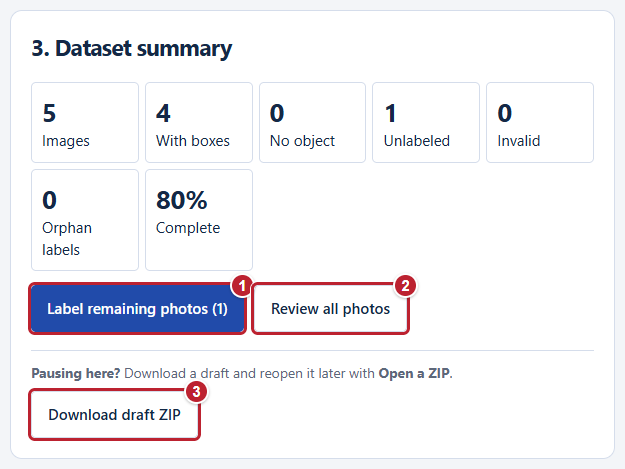
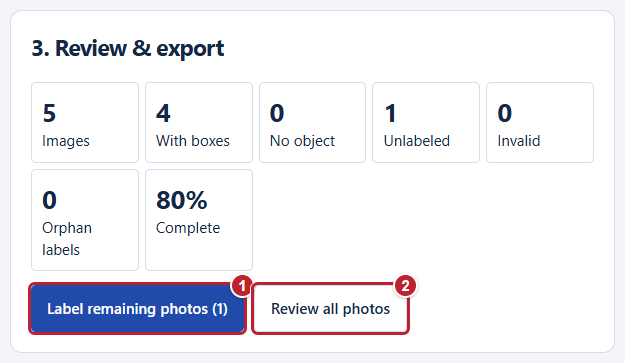
Update README and screenshots for the published Labeler workflow

diff --git a/README.md b/README.md
@@ -6,24 +6,24 @@
 
 **Make a YOLO dataset from your own photos.** Choose the object types you want to detect, draw a box around each one, then download a ZIP containing your photos, labels and class names. Labeling runs on your device and requires no account.
 
+[Start with your own photos](#your-first-dataset) · [Try the sample photos](#try-the-sample-photos) · [Continue training in Colab](#continue-training-in-colab)
+
 ![The annotation workbench with a boxed bolt and hex nut, the Suggest boxes toolbar button, and five distinct hardware photos](docs/guide/04-label-objects.png)
 
 The example uses photos of loose fasteners, an assembled bolt, a bolted plate, rusted parts and a bag of washers. [Screenshot photo credits](docs/guide/photo-credits.md)
-
-[Try the sample photos](#try-the-sample-photos) · [Start with your own photos](#your-first-dataset)
 
 ## Your first dataset
 
 1. **Start with a folder.** On your computer, create an empty folder called `My Dataset`. Open the labeler in desktop Chrome or Edge, click **Open dataset folder**, select it and allow write access if prompted.
 2. **Add your photos.** Click **Create Missing Items**. The labeler creates `images/`, `labels/` and `classes.txt`. Copy your training photos into `images/`, then click **Refresh Dataset**. Keep a few fresh photos aside for testing.
 3. **Choose your classes.** Click **Add Class** for each object type, enter names such as `bolt` and `hex_nut`, then click **Save Classes** and **Start Labeling**.
-4. **Label each photo.** In **Draw**, choose a **New box class** and drag a tight box around each matching object. Use **Edit** to adjust a box. Click **Next** to move on. Select **×** on a thumbnail to leave that photo out of the dataset.
+4. **Label each photo.** In **Draw**, choose a **New box class** and drag a tight box around each matching object. On an unlabeled photo, you can also use [**Suggest boxes**](#get-suggestions-for-a-photo), check the results and draw any missing boxes. Use **Edit** to adjust a box, then click **Next** to move on.
 5. **Download your work.** Click **Save & exit** to open **Review & export**. Finish any remaining images and click **Download Labeled_data.zip**. The ZIP contains your photos, matching labels and class list.
-6. **Continue to training.** Find the ZIP in Downloads, click **I have the ZIP**, then **Continue to Training in Colab**. In Colab, sign in and open the notebook supplied in Part 5D. Upload your `Labeled_data.zip` through the **Files** panel, leave it zipped and run the dataset check. Check your class names before training.
+6. **Continue to training.** Find the ZIP in Downloads, click **I have the ZIP**, then **Continue to Training in Colab**. Open your training notebook and upload the ZIP as-is through **Files**. See [Continue training in Colab](#continue-training-in-colab).
 
 **On a phone?** Start at **Start with my photos**, pick your pictures and continue from step 3. Download a draft ZIP before closing if you want to finish later.
 
-[Import photos or ZIPs](#open-or-add-images) · [Classes and merging](#set-up-classes-and-combine-datasets) · [Drawing tools](#use-the-annotation-workbench) · [Phone controls](#use-the-workbench-on-a-phone) · [Saving and repairs](#review-save-and-resume) · [Export](#export-your-training-zip) · [Help and shortcuts](#help-and-keyboard-shortcuts)
+[Import photos or ZIPs](#open-or-add-images) · [Classes and merging](#set-up-classes-and-combine-datasets) · [Drawing tools](#use-the-annotation-workbench) · [Phone controls](#use-the-workbench-on-a-phone) · [Saving and repairs](#review-save-and-resume) · [Export](#export-your-training-zip) · [Colab](#continue-training-in-colab) · [Help and shortcuts](#help-and-keyboard-shortcuts)
 
 ## Try the sample photos
 
@@ -33,7 +33,7 @@ Use these five photos to practice labeling `bolt` and `hex_nut`. Choose the work
 
 | Labeler button | Download | What to do |
 |---|---|---|
-| **Open a ZIP** | [Nearly finished dataset ZIP](https://active-learning-kyle.github.io/yolo-dataset-labeler/examples/fasteners/fastener-labeled-dataset.zip) | Select the downloaded ZIP as-is. Four photos already have boxes. Click **Label remaining photos (1)** to open the washers photo, then try the final export. |
+| **Open a ZIP** | [Nearly finished dataset ZIP](https://active-learning-kyle.github.io/yolo-dataset-labeler/examples/fasteners/fastener-labeled-dataset.zip) | Select the downloaded ZIP as-is. Four photos already have boxes. Click **Label remaining photos (1)** to open the washer-only photo. Remove it with **×**, or use **Photo options → Confirm no object** to include it as a background. |
 | **Start with my photos** | [Unlabeled photos](https://active-learning-kyle.github.io/yolo-dataset-labeler/examples/fasteners/fastener-photos.zip) | Unzip the download. Select the five JPGs inside **Fastener-Photos**, using your photo library or file picker. Add `bolt` first and `hex_nut` second, click **Save Classes**, then **Start Labeling**. |
 
 The washers photo contains neither target class. You can remove it from the training dataset and keep it aside to test for false detections. When every included photo has been reviewed, click **Save & exit** and download **Labeled_data.zip**. Keep the photo credits from the pack with any copy you share. [Photo sources and licenses](docs/guide/photo-credits.md)
@@ -53,6 +53,8 @@ The washers photo contains neither target class. You can remove it from the trai
 
 While labeling, choose **+ Add photos** at the end of the image strip to append more photos. On a phone, open the strip with **Images** first. Use the **×** on a thumbnail to remove that photo and its label from the current dataset and future ZIP exports. Hover over the thumbnail or focus it with the keyboard to reveal the button on a computer. **Undo remove** restores the photo with its label. The original files stay on your device. If you reopen the original folder, its photos are included again. Reopen your exported ZIP to continue with the curated set.
 
+If you remove every photo, choose **Add photos**, **Undo remove**, or **Back to dataset** to return to setup.
+
 When you open an empty writable folder, click **Create Missing Items** where shown below. Copy photos into `images/` and click **Refresh Dataset** beside it.
 
 ![Empty dataset with all three required items marked Missing and Create Missing Items outlined in red](docs/guide/02-create-files.png)
@@ -69,7 +71,7 @@ A class is an object type. Use a distinct, non-empty name for each one. The numb
 
 **1** Add a row for each object type. **2** Save your class names. **3** Open the workbench.
 
-- Before labeling, use **↑** to move a class up or **Delete** to remove it. Once images have labels, the order and delete controls lock so existing IDs keep their meaning. You can still append another class.
+- Use **↑** to move a class up or **Delete** to remove it. The labeler disables an action if it would change or remove an ID used by existing labels, including labels on photos you can restore. You can add another class at the end.
 - To open a ZIP as its own dataset, choose **Open a ZIP** on the home screen. To add labeled photos to the dataset you already have open, save your classes and choose **Import labeled ZIP** under **Dataset structure**. The class names and order must match. The labeler keeps reviewed backgrounds, skips photos without a label file and renames incoming pairs when a filename is taken.
 
 ## Use the annotation workbench
@@ -92,6 +94,10 @@ The numbers in the [workbench screenshot above](#yolo-dataset-labeler) show **1*
 3. Check each dashed box. Choose its class in the menu beside that box under **Bounding boxes**. Use **Edit** to move or resize a box, **Delete** to remove one, and **Draw** to add any missed objects. The number marked **AI** is the model's score for its original suggestion.
 4. Click **Save reviewed boxes** when the whole photo is ready. To start over, click **Discard suggestions**. If the model suggests nothing, check the photo yourself and draw boxes around any missed targets.
 
+![A dashed suggestion around the bolt, the class selector beside it, and the Save reviewed boxes button](docs/guide/10-review-suggested-boxes.png)
+
+The suggestion found the bolt. Select **Draw** and the `hex_nut` class to add the missing box around the nut before saving.
+
 The model is [OWL-ViT](https://huggingface.co/google/owlvit-base-patch32), using [quantized ONNX weights](https://huggingface.co/Xenova/owlvit-base-patch32). Fine distinctions, small parts and partly hidden objects may need more hand correction.
 
 ### Use the workbench on a phone
@@ -106,7 +112,9 @@ In **Review & export**, choose **Start Labeling** for a fresh set. When a set is
 
 When you work through the **Unlabeled** filter, photos stay in that list while you edit them. The labeler saves your edits as you go and updates their review status when you choose **Save & exit**.
 
-![A dataset with one photo left. The numbered controls open the remaining photo, review all five photos or save a draft to resume later.](docs/guide/09-resume-labeling.png)
+![Review and export area for a dataset with one photo left. Numbered controls open the remaining photo or review all five photos.](docs/guide/09-resume-labeling.png)
+
+**1** Start with the remaining photos. **2** Reopen the full set for a final check.
 
 | Status or message | What it means and what to do |
 |---|---|
@@ -145,9 +153,20 @@ Each box is one line in its image’s label file. The fields are `class_id x_cen
 
 After the final download, **I have the ZIP** reveals the image, box and background counts and the Colab link. **Return to dataset** takes you back to your work.
 
-**For instructors.** To open your own course notebook from the training button, share the Labeler URL with `#notebook=YOUR_DRIVE_FILE_ID` at the end. Use the ID after `/drive/` in your Colab notebook link. Give your students viewer access in Google Drive. The regular Labeler URL opens the Colab home page.
-
 ![Ready for training dialog showing the example dataset totals and the Continue to Training in Colab link outlined in red](docs/guide/06-open-colab.png)
+
+## Continue training in Colab
+
+The regular Labeler link takes you to the Colab home page. A Labeler link with a notebook ID opens that notebook directly after you click **Continue to Training in Colab**. Sign in if prompted.
+
+If you are using the HKU training notebook, run its cells in order.
+
+1. Run **Check the runtime**. If Colab says it cannot connect to a GPU, choose **Connect without GPU**. A result of `Runtime ready: CPU` lets you continue.
+2. In Colab’s **Files** panel, upload `Labeled_data.zip` to the top level of the session. Run **Check and split your ZIP**, then check your class names, IDs and photo counts.
+3. Run **Train your detector**. Upload fresh test photos separately with filenames starting with `unseen-`, then run **Test unseen images**.
+4. Run **Download your evidence** and open `team-results.zip` from Downloads. It contains your model weights, class list, training log and one prediction image per test photo. While the runtime is connected, you can also find the ZIP in Colab’s **Files** panel.
+
+**For instructors.** Append `#notebook=YOUR_DRIVE_FILE_ID` to the Labeler URL to open your own course notebook from the training button. Use the ID after `/drive/` in its Colab link and grant your students viewer access in Google Drive.
 
 ## Help and keyboard shortcuts
 
